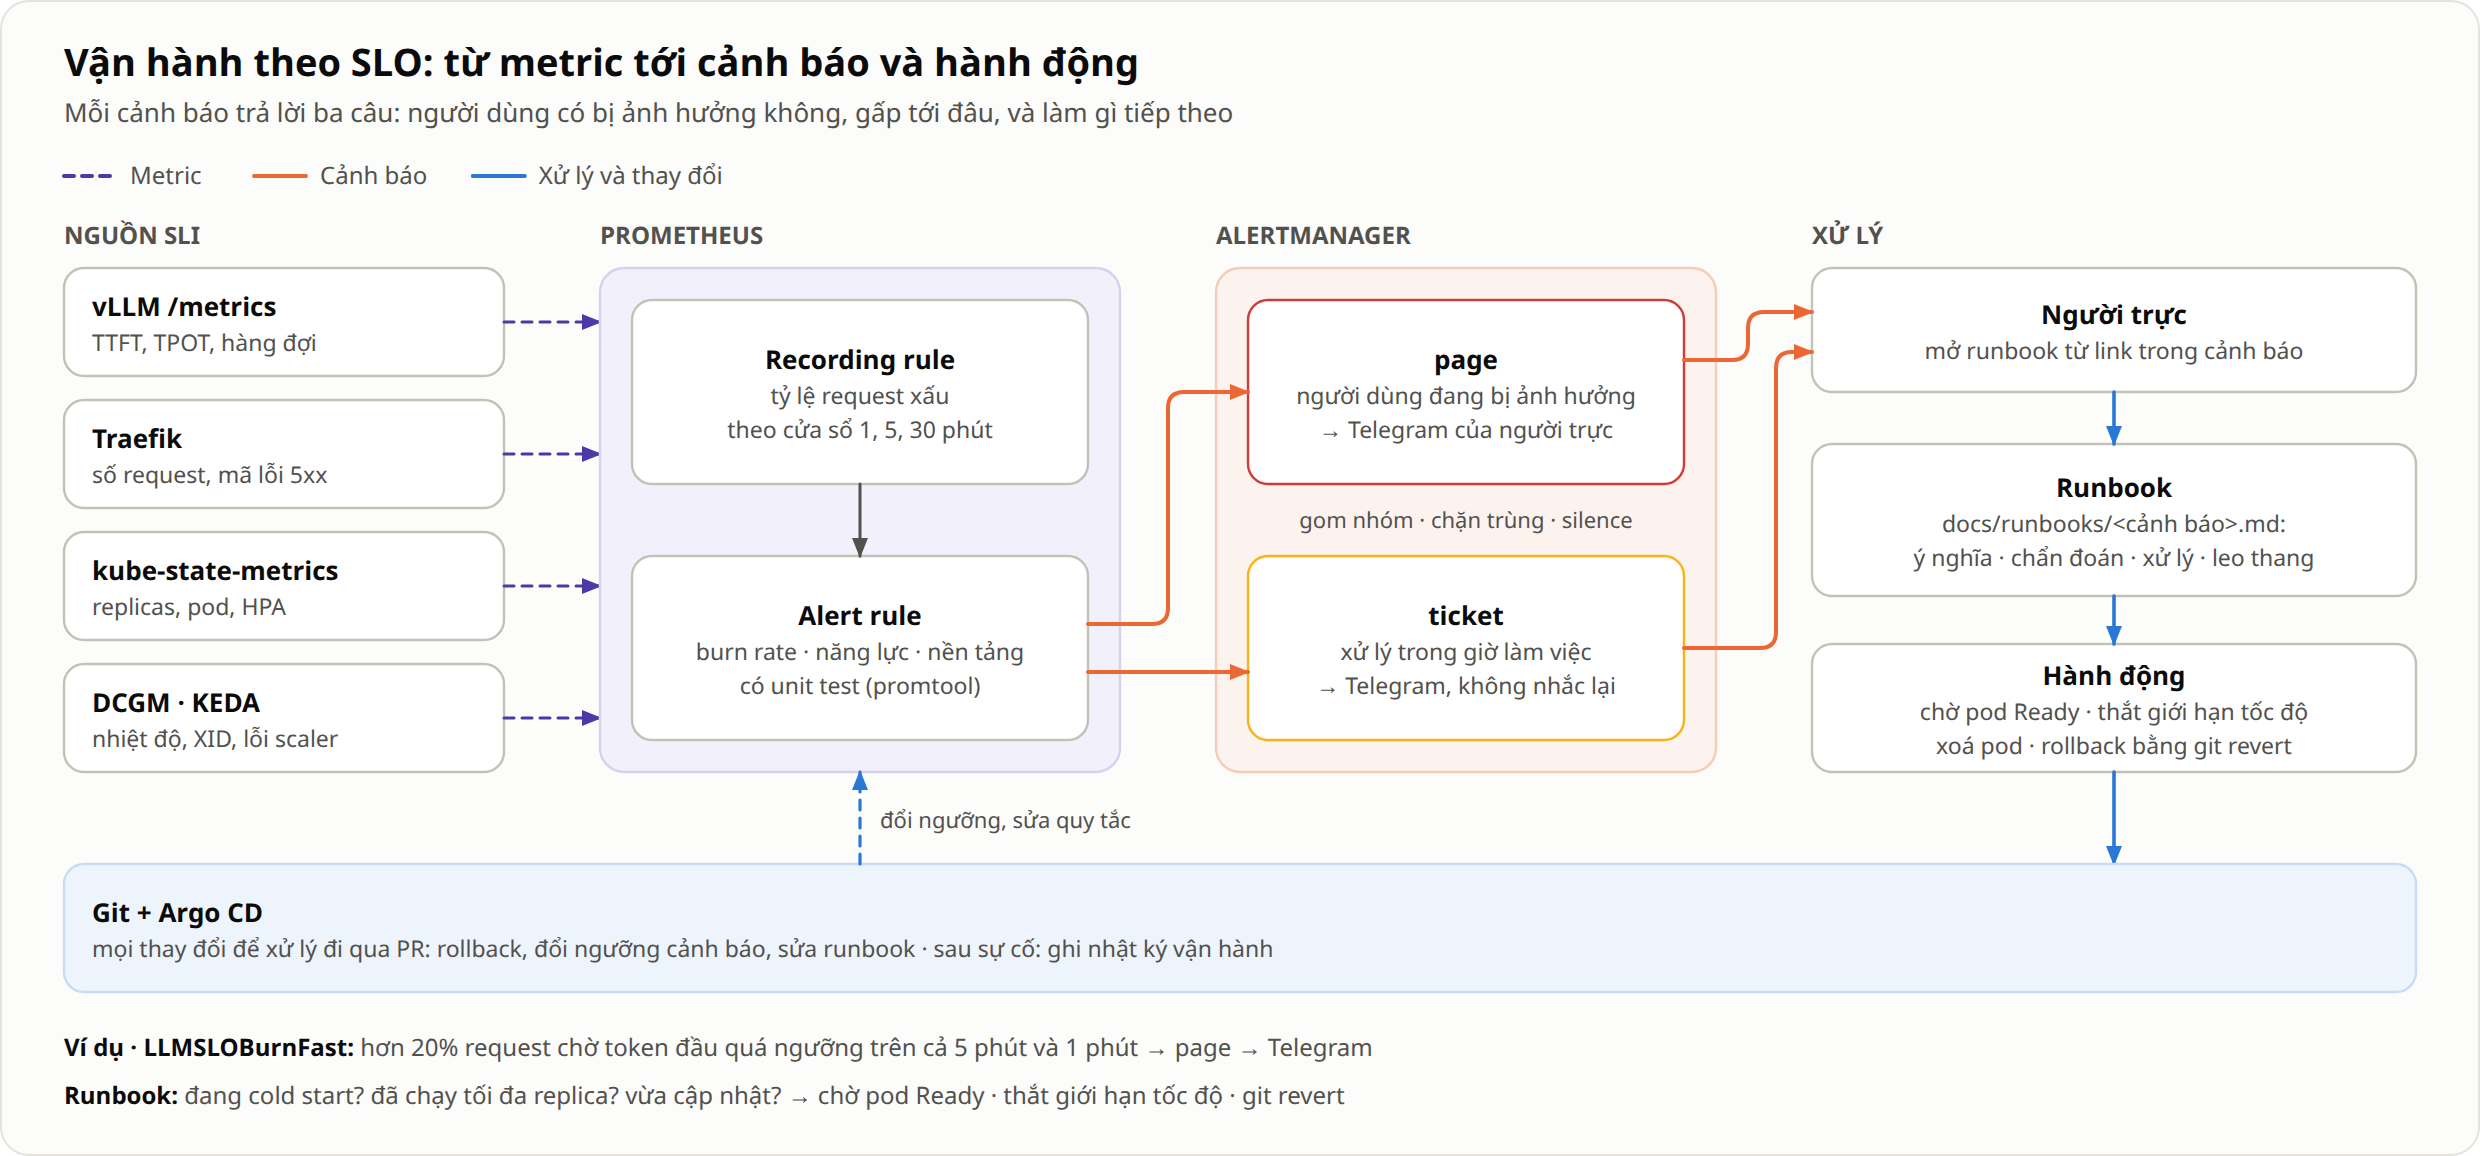
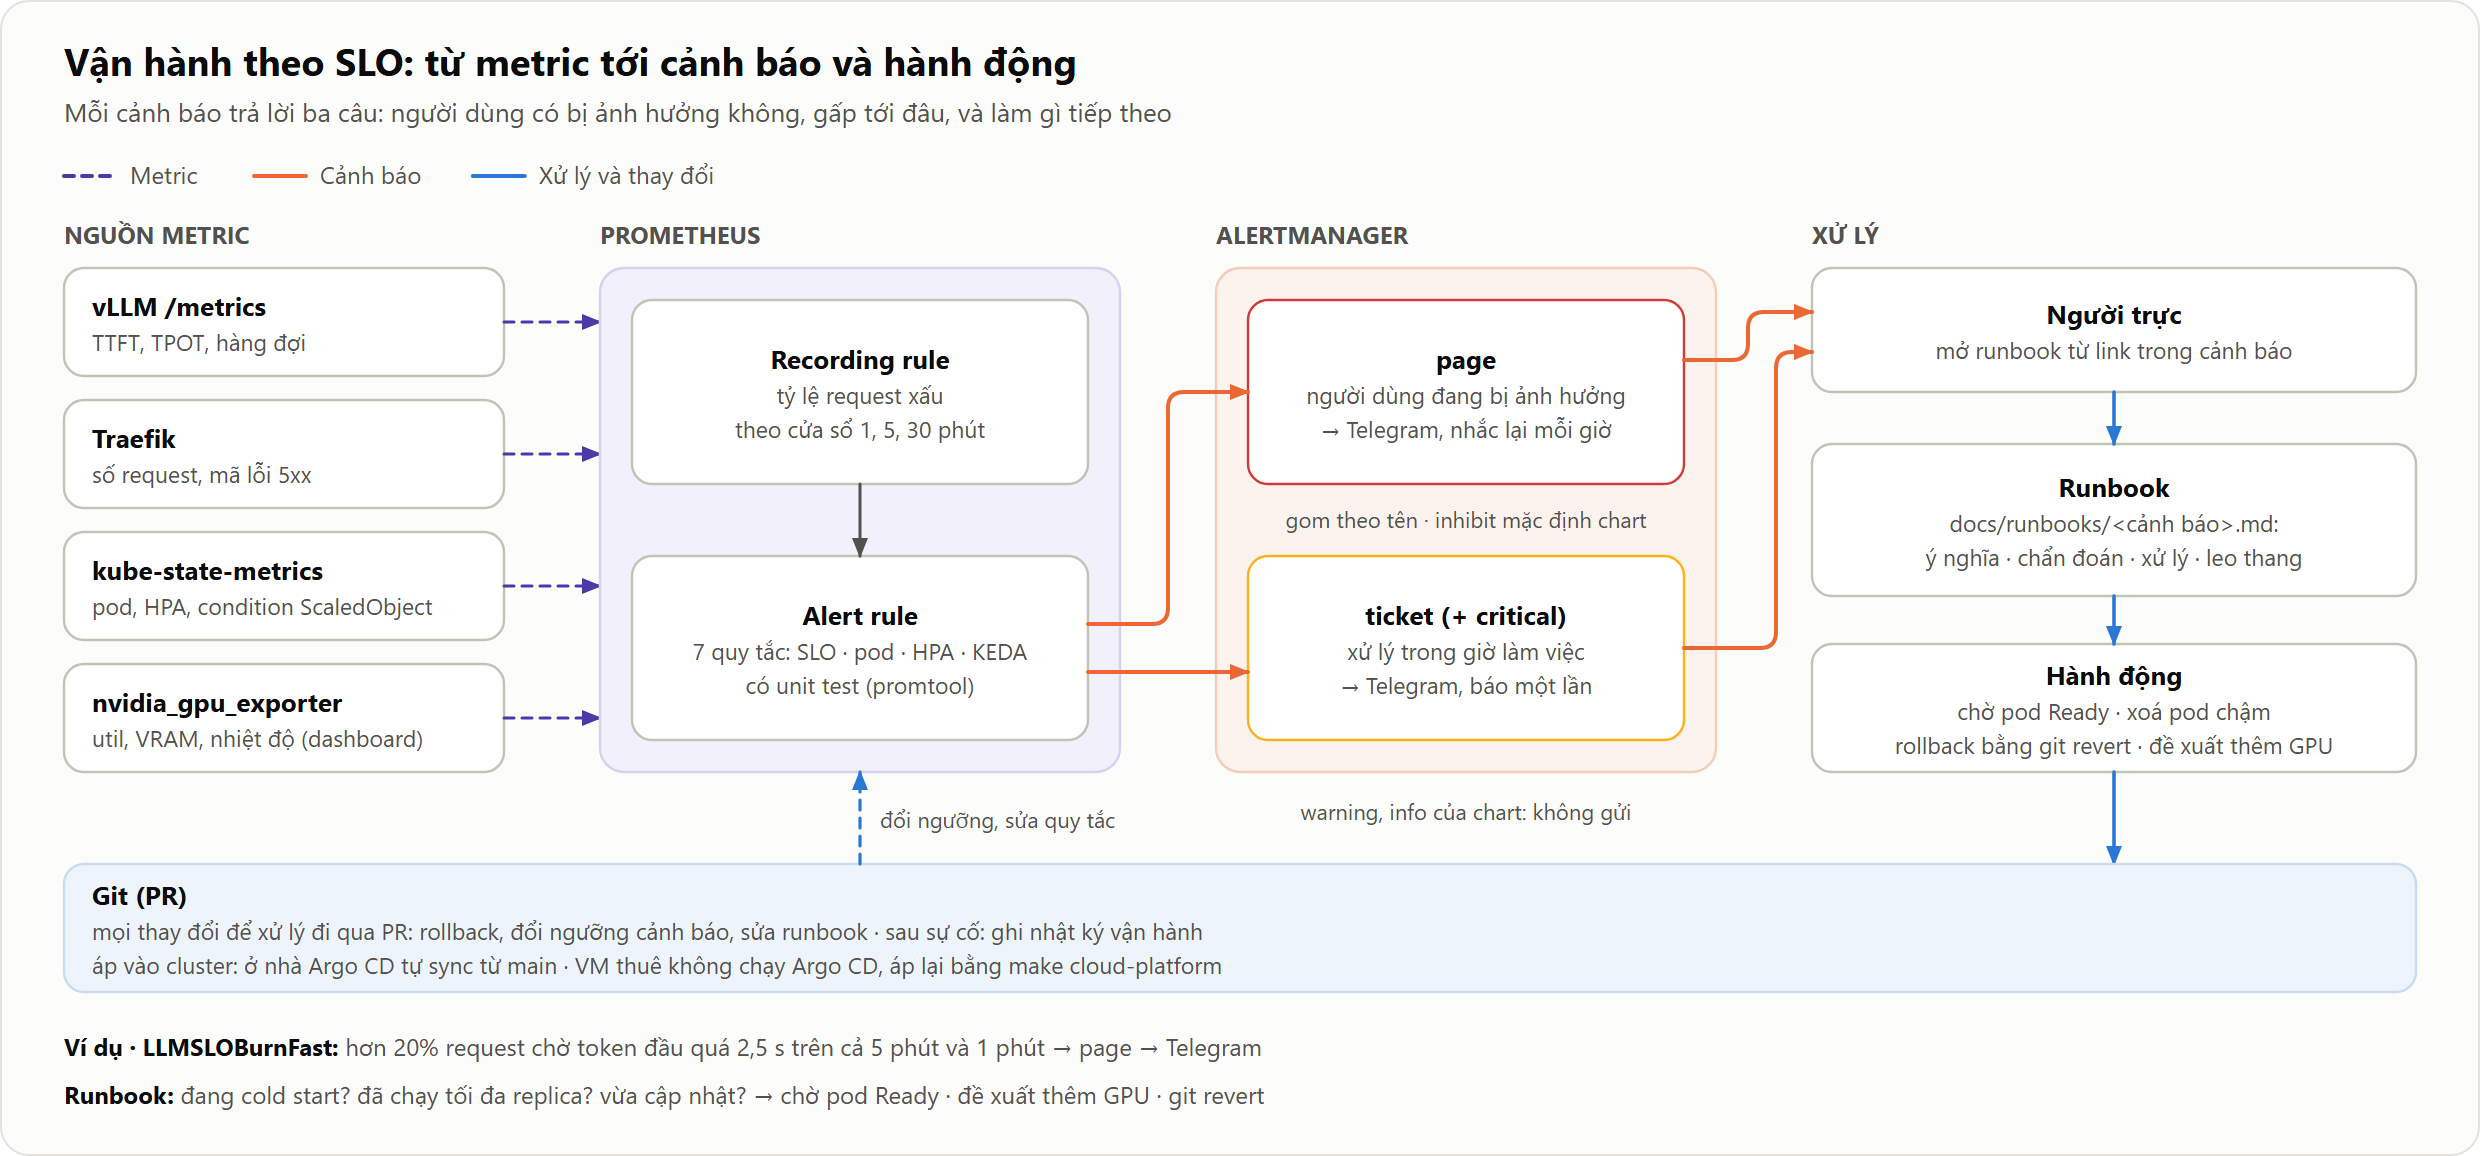
docs: align figure 7 with the implemented alerting and fix the PNG export on Windows (TR8)
Figure 7 (metric -> alert -> runbook) drifted from what was built in six places:
- GPU metrics come from nvidia_gpu_exporter (nvidia-smi), not DCGM, and only feed dashboards
- no temperature or XID alerts exist; the alert rule box now lists the 7 rules
- runbook actions no longer mention rate limiting (the Traefik layer was dropped on 12/11)
- kube-state-metrics now shows the ScaledObject condition read by KedaScalerErrors
- Alertmanager note: grouping by alert name, inhibit rules are the chart defaults, chart
  warning/info alerts are not sent, ticket also carries the chart critical alerts
- the Git box says Argo CD syncs only at home; the rented VM re-applies with make cloud-platform

export_png.sh passed a /d/... path to Chrome under Git Bash, so Chrome wrote nothing and the
script still printed success. It now converts paths with cygpath, removes the old PNG first and
fails when Chrome writes no file.

diff --git a/docs/diagrams/build_diagrams.py b/docs/diagrams/build_diagrams.py
@@ -535,24 +535,29 @@ def fig_coldstart():
 # ======================================================================
 # Hình 7 — Vận hành theo SLO: metric → cảnh báo → runbook
 # ======================================================================
+# Nội dung bám theo cái đã làm (sửa 23/11): quy tắc ở common/observability/alerts/llm.yaml và rules/slo.yaml,
+# định tuyến ở common/platform/alertmanager-values.yaml, metric GPU từ common/platform/gpu-exporter/ (đọc
+# nvidia-smi, không phải DCGM; chỉ vẽ dashboard, không có cảnh báo GPU), hành động theo docs/runbooks/.
 def fig_slo_alert():
     W, H = 1240, 578
-    s = Svg(W, H, "Vận hành theo SLO: Prometheus tính SLI từ metric của vLLM, Traefik, kube-state-metrics và GPU; "
-                  "cảnh báo theo burn rate qua Alertmanager tới người trực; người trực làm theo runbook; "
-                  "mọi thay đổi đi qua Git và Argo CD")
+    s = Svg(W, H, "Vận hành theo SLO: Prometheus thu metric của vLLM, Traefik, kube-state-metrics và GPU, tính SLI "
+                  "bằng recording rule; cảnh báo theo burn rate và sức khoẻ nền tảng qua Alertmanager tới người trực; "
+                  "người trực làm theo runbook; mọi thay đổi đi qua Git, ở nhà Argo CD sync, VM thuê áp bằng script")
     s.header("Vận hành theo SLO: từ metric tới cảnh báo và hành động",
              "Mỗi cảnh báo trả lời ba câu: người dùng có bị ảnh hưởng không, gấp tới đâu, và làm gì tiếp theo")
     x = 32
     x = s.legend_line(x, 88, "Metric", VIOLET, dash="5 4")
     x = s.legend_line(x, 88, "Cảnh báo", ORANGE, sw=2)
     s.legend_line(x, 88, "Xử lý và thay đổi", BLUE, sw=2)
-    for xx, lab in ((32, "NGUỒN SLI"), (300, "PROMETHEUS"), (608, "ALERTMANAGER"), (906, "XỬ LÝ")):
+    for xx, lab in ((32, "NGUỒN METRIC"), (300, "PROMETHEUS"), (608, "ALERTMANAGER"), (906, "XỬ LÝ")):
         s.text(xx, 122, lab, size=12, weight=700, fill=INK2)
 
+    # KedaScalerErrors đọc condition Fallback/Ready của ScaledObject qua kube-state-metrics, nên KEDA không
+    # là một nguồn riêng ở đây.
     srcs = [("vLLM /metrics", "TTFT, TPOT, hàng đợi"),
             ("Traefik", "số request, mã lỗi 5xx"),
-            ("kube-state-metrics", "replicas, pod, HPA"),
-            ("DCGM · KEDA", "nhiệt độ, XID, lỗi scaler")]
+            ("kube-state-metrics", "pod, HPA, condition ScaledObject"),
+            ("nvidia_gpu_exporter", "util, VRAM, nhiệt độ (dashboard)")]
     for k, (t, ln) in enumerate(srcs):
         y = 134 + k * 66
         s.box(32, y, 220, 54, t, [ln], tsize=13, align="start")
@@ -560,21 +565,25 @@ def fig_slo_alert():
 
     s.rect(300, 134, 260, 252, fill=VIOLET_T, stroke="#d6d1ef", rx=12)
     s.box(316, 150, 228, 92, "Recording rule", ["tỷ lệ request xấu", "theo cửa sổ 1, 5, 30 phút"], tsize=13)
-    s.box(316, 278, 228, 92, "Alert rule", ["burn rate · năng lực · nền tảng", "có unit test (promtool)"], tsize=13)
+    s.box(316, 278, 228, 92, "Alert rule", ["7 quy tắc: SLO · pod · HPA · KEDA", "có unit test (promtool)"],
+          tsize=13)
     s.arrow([(430, 242), (430, 278)], INK2, sw=1.5)
 
+    # Inhibit rule không khai báo trong values của nhóm: dùng mặc định của chart kube-prometheus-stack.
     s.rect(608, 134, 250, 252, fill=ORANGE_T, stroke="#f3cdb9", rx=12)
-    s.box(624, 150, 218, 92, "page", ["người dùng đang bị ảnh hưởng", "→ Telegram của người trực"], tsize=13,
+    s.box(624, 150, 218, 92, "page", ["người dùng đang bị ảnh hưởng", "→ Telegram, nhắc lại mỗi giờ"], tsize=13,
           stroke=CRIT)
-    s.box(624, 278, 218, 92, "ticket", ["xử lý trong giờ làm việc", "→ Telegram, không nhắc lại"], tsize=13, stroke=WARN)
-    s.text(733, 264, "gom nhóm · chặn trùng · silence", size=11, fill=INK2, anchor="middle")
+    s.box(624, 278, 218, 92, "ticket (+ critical)", ["xử lý trong giờ làm việc", "→ Telegram, báo một lần"],
+          tsize=13, stroke=WARN)
+    s.text(733, 264, "gom theo tên · inhibit mặc định chart", size=11, fill=INK2, anchor="middle")
+    s.text(733, 410, "warning, info của chart: không gửi", size=11, fill=INK2, anchor="middle")
     s.arrow([(544, 312), (584, 312), (584, 196), (624, 196)], ORANGE, sw=2)
     s.arrow([(544, 336), (624, 336)], ORANGE, sw=2)
 
     s.box(906, 134, 302, 62, "Người trực", ["mở runbook từ link trong cảnh báo"], tsize=13)
     s.box(906, 222, 302, 76, "Runbook", ["docs/runbooks/<cảnh báo>.md:", "ý nghĩa · chẩn đoán · xử lý · leo thang"],
           tsize=13)
-    s.box(906, 322, 302, 64, "Hành động", ["chờ pod Ready · thắt giới hạn tốc độ", "xoá pod · rollback bằng git revert"],
+    s.box(906, 322, 302, 64, "Hành động", ["chờ pod Ready · xoá pod chậm", "rollback bằng git revert · đề xuất thêm GPU"],
           tsize=13)
     s.arrow([(842, 180), (874, 180), (874, 156), (906, 156)], ORANGE, sw=2)
     s.arrow([(842, 324), (888, 324), (888, 176), (906, 176)], ORANGE, sw=2)
@@ -582,16 +591,20 @@ def fig_slo_alert():
     s.arrow([(1057, 298), (1057, 322)], BLUE, sw=1.8)
     s.arrow([(1057, 386), (1057, 432)], BLUE, sw=1.8)
 
-    s.box(32, 432, 1176, 64, "Git + Argo CD",
+    # VM thuê không chạy Argo CD (envs/cloud/README.md): thay đổi áp lại bằng make cloud-platform
+    # (helm upgrade --install, kubectl apply; chạy lại được).
+    s.box(32, 432, 1176, 64, "Git (PR)",
           ["mọi thay đổi để xử lý đi qua PR: rollback, đổi ngưỡng cảnh báo, sửa runbook · "
-           "sau sự cố: ghi nhật ký vận hành"], tsize=13, align="start", fill=BLUE_T, stroke="#c9dcf3")
+           "sau sự cố: ghi nhật ký vận hành",
+           "áp vào cluster: ở nhà Argo CD tự sync từ main · VM thuê không chạy Argo CD, áp lại bằng make cloud-platform"],
+          tsize=13, align="start", fill=BLUE_T, stroke="#c9dcf3")
     s.arrow([(430, 432), (430, 386)], BLUE, sw=1.6, dash="5 4")
     s.label(440, 414, "đổi ngưỡng, sửa quy tắc", anchor="start")
     s.rich(32, 528, [("Ví dụ · LLMSLOBurnFast: ", 650, INK),
-                     ("hơn 20% request chờ token đầu quá ngưỡng trên cả 5 phút và 1 phút → page → Telegram",
+                     ("hơn 20% request chờ token đầu quá 2,5 s trên cả 5 phút và 1 phút → page → Telegram",
                       400, INK2)], size=12)
     s.rich(32, 552, [("Runbook: ", 650, INK),
-                     ("đang cold start? đã chạy tối đa replica? vừa cập nhật? → chờ pod Ready · thắt giới hạn tốc độ · "
+                     ("đang cold start? đã chạy tối đa replica? vừa cập nhật? → chờ pod Ready · đề xuất thêm GPU · "
                       "git revert", 400, INK2)], size=12)
     s.save("07-slo-canh-bao-runbook.svg")
 
